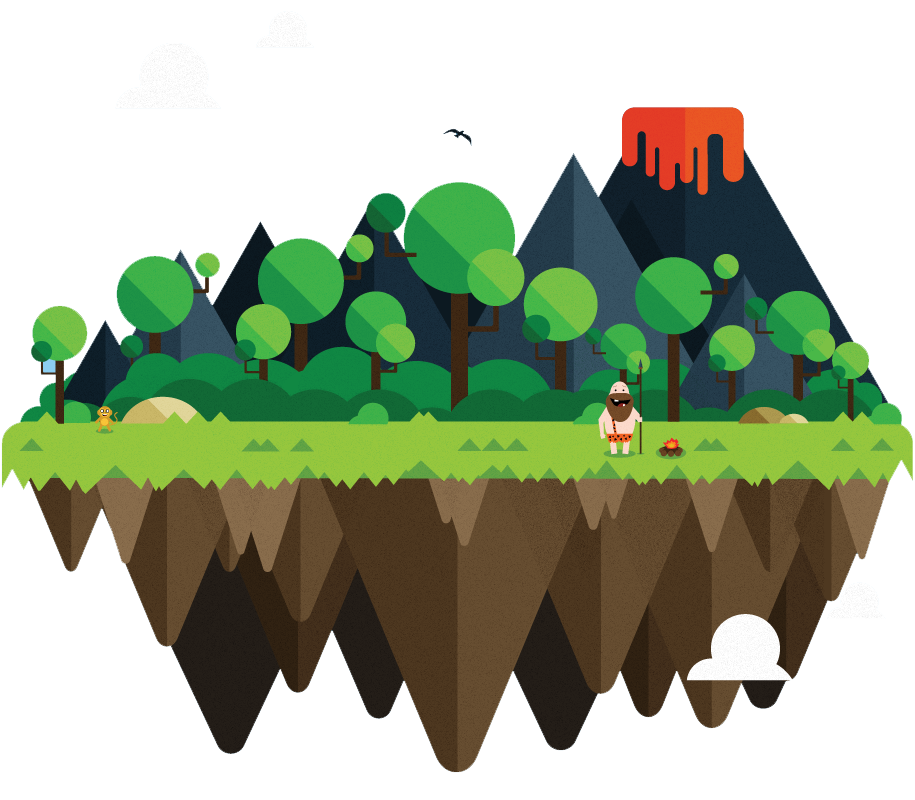
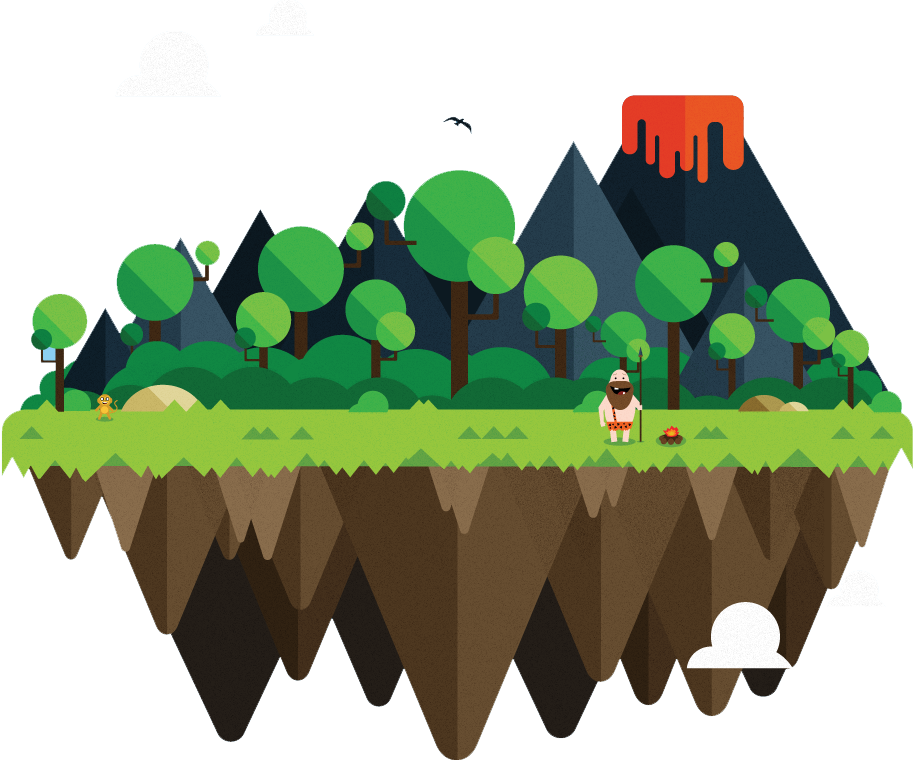
Added skills

diff --git a/index.html b/index.html
@@ -8,34 +8,45 @@
     <link rel="shortcut icon" href="favicon.ico" type="image/x-icon" />
     <link rel="preconnect" href="https://fonts.googleapis.com" />
     <link rel="preconnect" href="https://fonts.gstatic.com" crossorigin />
-    <link rel="stylesheet" href="https://fonts.googleapis.com/css2?family=Merriweather&family=Montserrat&family=Sacramento&display=swap"/>
+    <link rel="stylesheet" href="https://fonts.googleapis.com/css2?family=Montserrat&family=Sacramento&display=swap"/>
     <title>Pedro Miguel</title>
   </head>
   <body>
-
     <div class="container top">
-      <h1 class="title">I'm Pedro</h1>
-      <h2 class="subtitle">A Front-End Developer</h2>
+      <p>Hello</p>
+      <h1>I'm Pedro</h1>
+      <h2>A Front-End Developer</h2>
       <img class="island" src="img/astro-floating-island.png" alt="Astronaut floating island"/>
       <hr class="separator"/>
     </div>
-
     <div class="container middle">
-      <h2>Skills</h2>
-      <p> Lorem ipsum dolor sit amet, vitae volutpat, dui conubia, dolor urna. Non auctor, montes nulla distinctio.</p>
+      <h2 class="section-title">My Skills.</h2>
       <img class="island" src="img/earth-floating-island.png" alt="Earth floating island"/>
+      <div class="skill-row">
+        <img class="skill-img float-left" src="img/html.png" alt="HTML icon">
+        <h3 class="skill-title">HTML</h3>
+        <p class="skill-description">Lorem Ipsum is simply dummy text of the printing and typesetting industry. Lorem Ipsum has been the industry's standard dummy text ever since the 1500s, when an unknown printer took a galley of type and scrambled it to make a type specimen book.</p>
+      </div>
+      <div class="skill-row">
+        <img class="skill-img float-right" src="img/css.png" alt="CSS icon">
+        <h3 class="skill-title">CSS</h3>
+        <p class="skill-description">Lorem Ipsum is simply dummy text of the printing and typesetting industry. Lorem Ipsum has been the industry's standard dummy text ever since the 1500s, when an unknown printer took a galley of type and scrambled it to make a type specimen book.</p>
+      </div>
+      <div class="skill-row">
+        <img class="skill-img float-left" src="img/javascript.png" alt="JavaScript icon">
+        <h3 class="skill-title">JavaScript</h3>
+        <p class="skill-description">Lorem Ipsum is simply dummy text of the printing and typesetting industry. Lorem Ipsum has been the industry's standard dummy text ever since the 1500s, when an unknown printer took a galley of type and scrambled it to make a type specimen book.</p>
+      </div>
       <hr class="separator" />
     </div>
-
     <div class="container bottom">
-      <h2>Contact-me</h2>
+      <h2 class="section-title">Contact-me</h2>
       <p> Lorem ipsum dolor sit amet, vitae volutpat, dui conubia, dolor urna. Non auctor, montes nulla distinctio.</p>
+      <img class="island" src="img/desert-floating-island.png" alt="Desert floating island"/>
       <a class="footer-link" href="https://www.linkedin.com/in/pedromiguelsbs/">LinkedIn</a>
       <a class="footer-link" href="https://github.com/pedromiguelsbs">GitHub</a>
       <a class="footer-link" href="https://www.instagram.com/pedromiguelsbs/">Instagram</a>
-      <img class="island" src="img/desert-floating-island.png" alt="Desert floating island"/>
       <p>© Pedro Miguel.</p>
     </div>
-
   </body>
 </html>

diff --git a/css/styles.css b/css/styles.css
@@ -2,14 +2,13 @@ body {
     margin: 0;
     padding: 0;
     box-sizing: border-box;
-    font-family: 'Merriweather', serif;
+    font-family: 'Montserrat', sans-serif;
     color: #FEFEFE;
     text-align: center;
     scroll-behavior: smooth;
 }
 
 .container {
-    height: 103vh;
     caret-color: transparent;
     display: flex;
     flex-direction: column;
@@ -19,22 +18,26 @@ body {
     align-items: center;
 }
 
-.title {
+h1 {
     margin: 0;  
     font-family: 'Sacramento', cursive;
     font-size: 4rem;
     font-weight: normal;
 }
 
-.subtitle {
-    margin: 0;
-    font-family: 'Montserrat', sans-serif;
-    font-size: 1rem;
+h2 {
+    font-size: 1.05rem;
     font-weight: normal;
+}
+
+.section-title {
+    margin-top: 3rem;
+    font-size: 1.8rem;
 }
 
 .top {
     background: linear-gradient(180deg, rgba(36,36,36,1) 85%, rgba(52,52,52,1) 99%, rgb(140, 206, 241) 100%);
+    height: 101vh;
 }
 
 .middle {
@@ -45,14 +48,9 @@ body {
     background: rgb(240, 97, 36);
 }
 
-a {
-    color: #ffaf8c;
-    text-decoration: none;
-}
-
 .island {
-    width: 700px;
-    margin: 3rem auto;
+    width: 600px;
+    margin: 3.5rem auto 1rem auto ;
     display: block;
 }
 
@@ -62,4 +60,45 @@ a {
     border-left: none;
     border-right: none;
     width: 60px;
+}
+
+.skill-row {
+    width: 50%;
+    margin: 1rem 0;
+}
+
+.skill-img {
+    margin: 73px 0 0 0;
+    width: 80px;
+}
+
+.float-left {
+    float: left;
+    margin-right: 30px;
+}
+
+.float-right {
+    float: right;
+    margin-left: 30px;
+}
+
+.skill-title {
+    font-size: 1.25rem;
+    font-weight: bold;
+    letter-spacing: 3px;
+}
+
+.skill-title, .skill-description {
+    text-align: left;
+}
+
+.skill-description {
+    font-size: 1.05rem;
+    line-height: 2;
+}
+
+
+a {
+    color: #ffaf8c;
+    text-decoration: none;
 }
